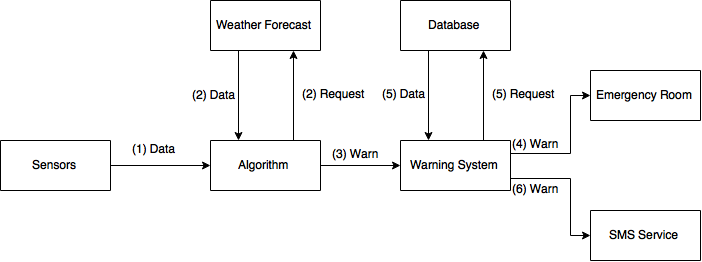
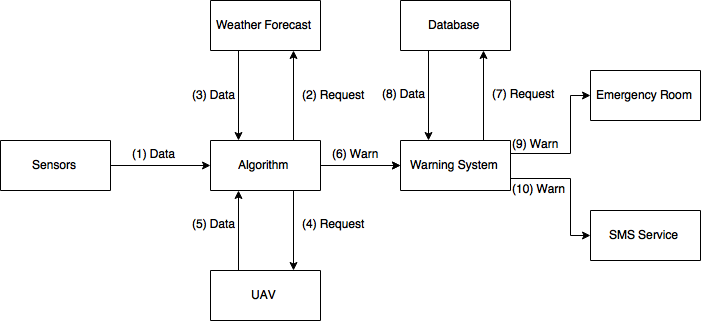
Scenarios

diff --git a/7-software/views/scenarios.tex b/7-software/views/scenarios.tex
@@ -7,30 +7,46 @@
 	Figure 6.
 }
 {from wikipedia\\\url{https://en.wikipedia.org/wiki/4\%2B1_architectural_view_model} and \url{http://pld.ttu.ee/~kruus/db_is02.pdf}}
+
 This section describes the scenarios that are most likely to happen in our system. Scenarios are the interactions from our system with the different actors. First a textual step by step scenario is given, after that a diagram is shown with the scenario diagram.
 
 \subsubsection*{Flood scenario}
+\begin{enumerate}
+  	\item The sensors monitor the water level
+  	\item The algorithm requests weather forecast data
+  	\item The weather forecast API returns the requested data
+  	\item The algorithm sends a request to the UAV to validate results or provide extra images
+  	\item The UAV provides the requested validation or extra images
+  	\item The algorithm sends a warning to the warning part
+  	\item The warning part requests the phone numbers from all subscribed citizens in the affected area
+  	\item The database returns a list containing the corresponding phone numbers
+  	\item The warning part invokes the emergency room API
+  	\item The warning part invokes the SMS API, which sends a SMS to all phonenumbers on the list
+\end{enumerate}
+
+The different steps that are taken in the flood scenario are also represented in figure \ref{fig:flood-scenario}. This figure represents the logical connections that are made when a scenario is executed. This means that in reality a connection that is shown in the figure may not be made directly in reality. For example, the sensor data doesn't go directly from the sensors to the algorithm, there are some steps in between. 
+
 \begin{figure}[H]
 	%\centering
 	\includegraphics[keepaspectratio=true,width=0.9\textwidth]{{\viewimages/scenario1}.png}
 	\caption{Scenario for a flood}
-	\label{fig:layers}
+	\label{fig:flood-scenario}
 \end{figure}
 
-Main scenarios: \\
-1. The sensors monitor the water level \\
-%The algorithm determines that the water levels are rising
-2. The algorithm requests weather forecast data \\
-%The algorithm predicts the probability of a flood
-%The probability is above a certain threshold
-3. The algorithm sends a warning to the warning part \\
-4. The warning part invokes the emergency room API \\
-5. The warning part composes a list with phonenumbers that are subscribed and are in the affected area \\
-6. The warning part invokes the SMS API, which sends a SMS to all phonenumbers on the list \\\\
+\subsubsection*{Guidance scenario}
+\begin{enumerate}
+	\item A citizen receives a warning text message
+	\item A citizen requests guidance from a third party application to reach a safe area
+	\item The third party application requests the current flood information from the third party API
+	\item The third party API returns the requested data
+	\item The third party application returns a route to a safe area
+\end{enumerate}
 
-A flood is happening or about to happen \\
-A citizen needs guidance to a safe area \\
-The citizen uses a third party application \\
-The third party application gets the current flood information from the third party API \\
-The third party application calculates a route to a safe spot \\
-The citizen follows the direction and gets into safety
+When a flood is imminent or happening, a citizen can decide to request guidance to a safe area. If a citizen is subscribed to the SMS service, the citizen will get a warning text message in case of an imminent flood. Then the citizen can use a third party application that provides routes to safety that are as safe as possible.
+
+\begin{figure}[H]
+	%\centering
+	\includegraphics[keepaspectratio=true,width=0.9\textwidth]{{\viewimages/scenario2}.png}
+	\caption{Scenario for guidance}
+	\label{fig:guidance-scenario}
+\end{figure}
